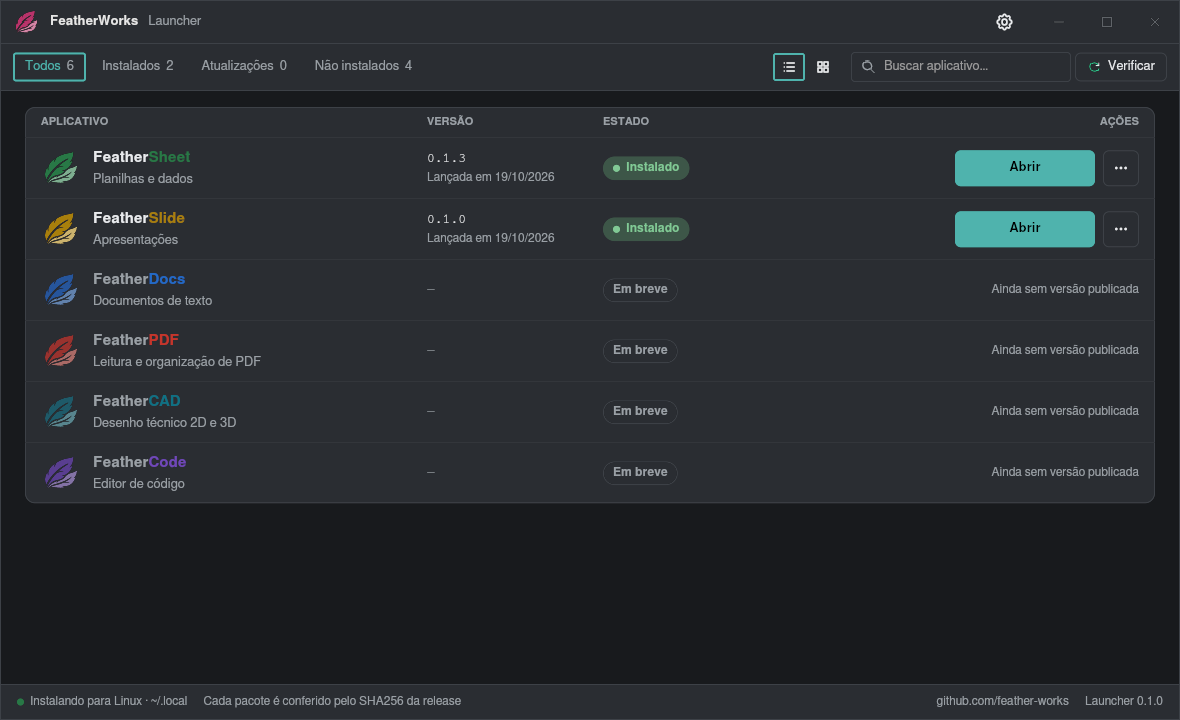
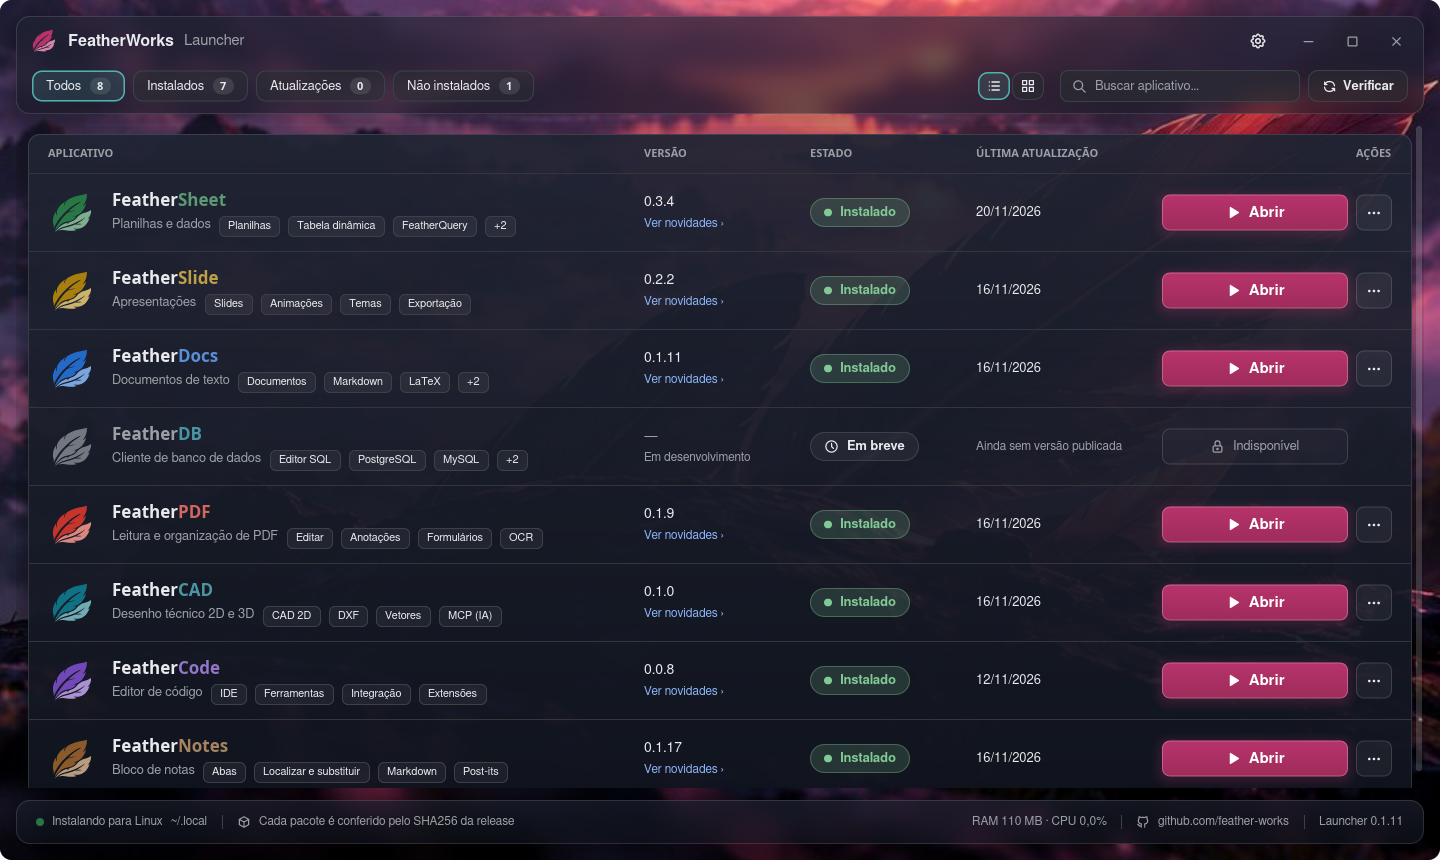
claude: captura nova no README e etiqueta FeatherQuery

diff --git a/src/releases.rs b/src/releases.rs
@@ -21,7 +21,7 @@ impl App {
 }
 
 pub const APPS: [App; 8] = [
-    App { id: "feathersheet", sufixo: "Sheet", descricao: "Planilhas e dados", etiquetas: &["Planilhas", "Tabela dinâmica", "OpenQuery", "Macros (JS)", "Gráficos"], cor: "#287846" },
+    App { id: "feathersheet", sufixo: "Sheet", descricao: "Planilhas e dados", etiquetas: &["Planilhas", "Tabela dinâmica", "FeatherQuery", "Macros (JS)", "Gráficos"], cor: "#287846" },
     App { id: "featherslide", sufixo: "Slide", descricao: "Apresentações", etiquetas: &["Slides", "Animações", "Temas", "Exportação"], cor: "#a87f0c" },
     App { id: "featherdocs", sufixo: "Docs", descricao: "Documentos de texto", etiquetas: &["Documentos", "Markdown", "LaTeX", "Whiteboard", "DOCX"], cor: "#236ac7" },
     App { id: "featherdb", sufixo: "DB", descricao: "Cliente de banco de dados", etiquetas: &["Editor SQL", "PostgreSQL", "MySQL", "MongoDB", "ODBC"], cor: "#0b7285" },

diff --git a/README.md b/README.md
@@ -9,7 +9,7 @@
 </p>
 
 <p align="center">
-  <img src="docs/launcher.png" width="820" alt="The launcher with FeatherSheet and FeatherSlide installed">
+  <img src="docs/launcher.png" width="820" alt="The launcher with the FeatherWorks apps">
 </p>
 
 ## Download
